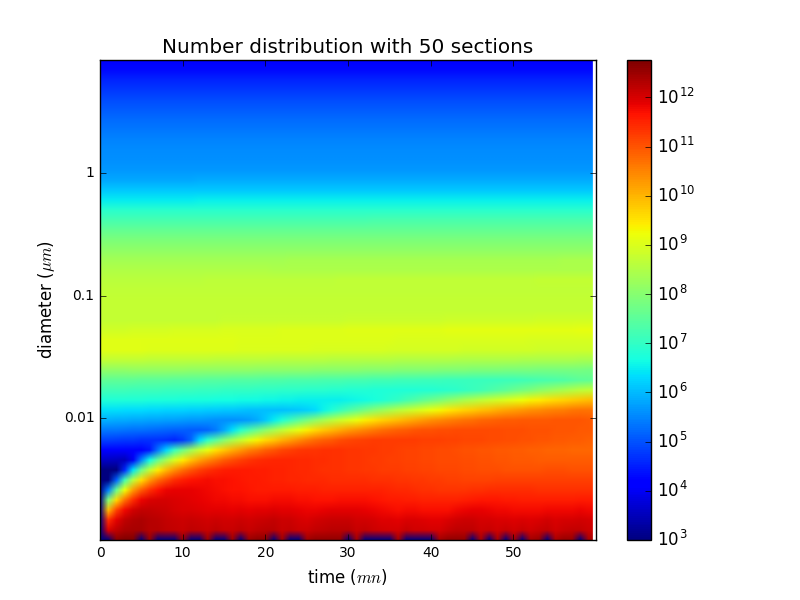
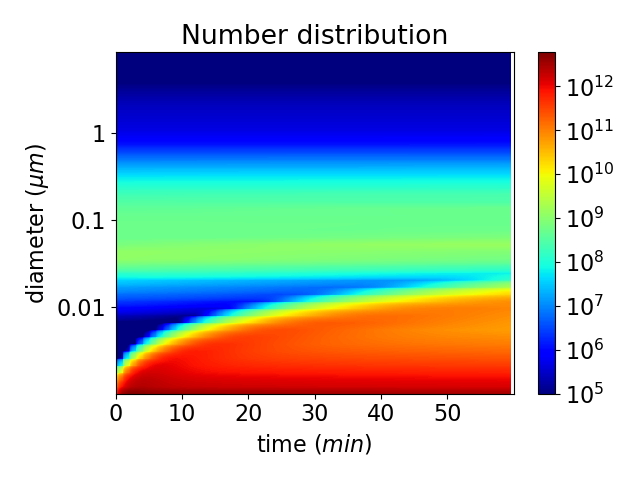
Improve figures.

diff --git a/graph/banana.py b/graph/banana.py
@@ -67,27 +67,36 @@ for j in range(sizebin_ssh):
                 maxnumber = number[j][i] 
 print number.min(),maxnumber,'minmaxnumber'
       
+maxnumber = 6.e12      
+print number.min(),maxnumber,'minmaxnumber'
+
+font = {'size'   : 16}
+matplotlib.rc('font', **font)
+
+#mftst = 20
+#mfts = 20
+#mftw = 'bold'
 
 #--- graphique ---#
 fig = plt.figure()
-ax = fig.add_subplot(111)
+#ax = fig.add_subplot(111)
 
-title('Number distribution with '+str(int(sizebin_ssh))+' sections')
+title('Number distribution') # with '+str(int(sizebin_ssh))+' sections')
 cmap='jet'
-norm = colors.LogNorm(1e3,maxnumber)
+norm = colors.LogNorm(1e5,maxnumber)
 # make an image plot
 plt.imshow(number,interpolation='bilinear',aspect='auto',origin='lower',cmap=cmap, norm=norm)
 nombre_mn=int(len(temps)*pas_temps)
 plt.xlim(0,nombre_mn)
 #yticks(num_y, ("0.01","0.1","1"))
 plt.ylim(0,a*log(7)+b)
-yticks(num_y-(a*log(0.001)+b),diam_arrondi,size=10)
+yticks(num_y-(a*log(0.001)+b),diam_arrondi)
 nb_ticks = 6
 x_set_ticks=[0]
 for i in arange(1,nb_ticks,1): 
   x_set_ticks.append(i*nombre_mn/nb_ticks)
 
-xticks(x_set_ticks,x_set_ticks,rotation=0,size=10) 
+xticks(x_set_ticks,x_set_ticks,rotation=0) 
 # make a color bar
 cb=colorbar(cmap=cmap, norm=norm)
 #cb.set_ticks([1e-2,1e0,1e2,1e4,1e6])
@@ -96,8 +105,9 @@ cb=colorbar(cmap=cmap, norm=norm)
 
 tick_range = np.logspace(3,13,num=13-3+1, base=10, dtype="int")
 cb.set_ticks(tick_range)
-xlabel(r"time ($mn$)")
+xlabel(r"time ($min$)")
 ylabel(r"diameter (${\mu m}$)")
+plt.tight_layout()
 savefig('fig_banana.png')
 
 

diff --git a/graph/dN_Vdlogd_nucl.py b/graph/dN_Vdlogd_nucl.py
@@ -39,6 +39,9 @@ dt_exa_diam_init = []
 exa_diam_out = []
 dt_exa_diam_out = []
 
+font = {'size'   : 14}
+matplotlib.rc('font', **font)
+matplotlib.pyplot.xticks(fontsize=14)
 ############################## results from SIREAM ####################################################""
 sizebin = 50
 tmp1 = -1
@@ -145,6 +148,7 @@ plt.xscale('log')
 plt.yscale('log')
 plt.title( 'Particle Number Distribution - case NUCL')
 plt.legend(loc ='best')		# show legend
+plt.tight_layout()
 fig.savefig('dNdlogd_'+tag_fig)
 
 ############################### drawing Particle volume Distribution
@@ -156,7 +160,8 @@ cols = ['-','-','-','-','-','-','-','-']
 for i in cases : lbs.append(i + '_init')
 for i in cases : lbs.append(i + '_out')
 # lists = [org_init, org_out, num_init_sml[], num_init_sml[]]
-fig = plt.figure(2,figsize = (15,15))
+#fig = plt.figure(2,figsize = (15,15))
+fig.clf()
 num = len(deltalogd)
 for i in range(len(lists2)) :
      if(i < 3) or (iredist==1):
@@ -191,6 +196,7 @@ plt.xscale('log')
 #plt.yscale('log')
 plt.title( 'Particle Volume Distribution - case NUCL')
 plt.legend(loc ='best')		# show legend
+plt.tight_layout()
 fig.savefig('dVdlogd_'+tag_fig)
 
 

diff --git a/user_manual/user_manual.tex b/user_manual/user_manual.tex
@@ -822,10 +822,7 @@ nucleation (configuration file {\it{namelist\_nucl\_split.ssh}}).
 
 To compare the number and volume size distribution simulated with the two numerical algorithms, you can run the python script {\it{graph/dN\_Vdlogd\_nucl.py}}.
 
-The two numerical algorithms give similar number concentrations, except for
-particles of diameter below 2~nm, which are over-estimated when coagulation is
-splitted from condensation/evaporation. For such small particles, the combined
-effects of coagulation, nucleation and condensation is important, as shown in Fig~\ref{fig-nucl}.
+The two numerical algorithms give similar number concentrations, as shown in Fig~\ref{fig-nucl}.
 
 The nucleated particles clearly grow to larger particles with time, as can be seen both in Fig~\ref{fig-nucl2} and by running the python script {\it{graph/banana.py}}.
 
